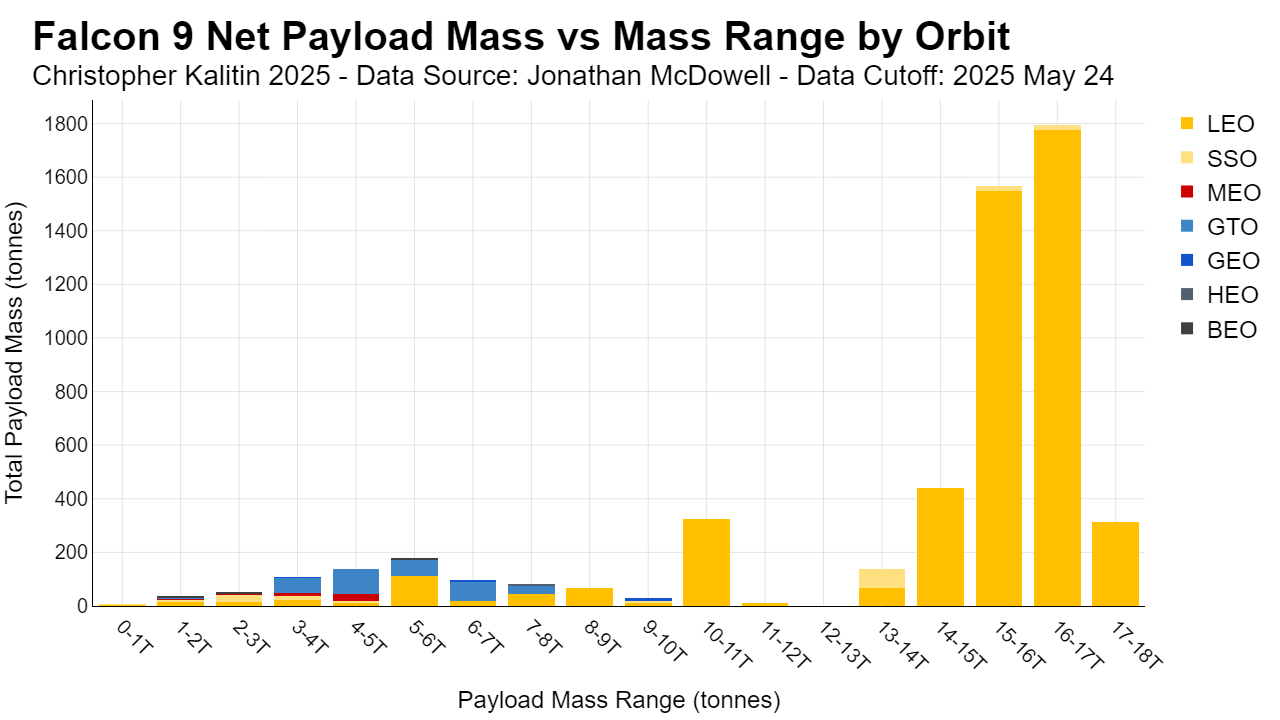
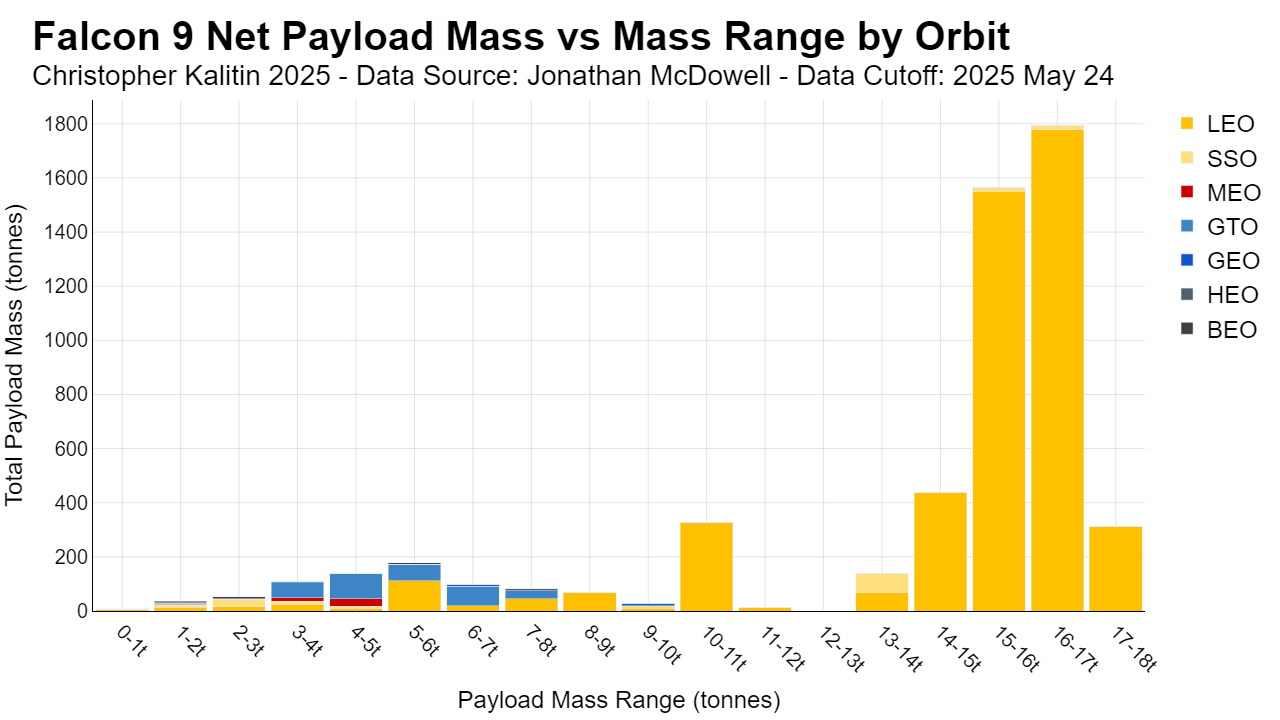
Refactored ChartUtils for refactored F9 Net Mass script

diff --git a/examples/orbital_launches_vs_year_by_orbit.py b/examples/orbital_launches_vs_year_by_orbit.py
@@ -1,40 +1,48 @@
 import mcdowell_dataset_analysis as mda
-import copy
-import pandas as pd
 
-dateset_name = "orbital_launches_vs_year_by_orbit"
+def main(start_year=2000):
+    dateset_name = f"orbital_launches_vs_year_by_orbit_{start_year}"
 
-# Initialize dataset
-dataset = mda.McdowellDataset("./datasets")
+    # Initialize dataset
+    dataset = mda.McdowellDataset("./datasets")
 
-mda.Filters.filter_by_launch_date(dataset.launch, start_date='2000-01-01')
-mda.Filters.filter_by_launch_category(dataset.launch, ['O', 'D'])
+    # Filter the base dataset
+    mda.Filters.filter_by_launch_date(dataset.launch, start_date=f'{start_year}-01-01')
+    mda.Filters.filter_by_launch_category(dataset.launch, ['O', 'D'])
 
-dataset.launch.df['Launch_Year'] = dataset.launch.df['Launch_Date'].dt.year
+    # Add launch year column for easier binning
+    dataset.launch.df['Launch_Year'] = dataset.launch.df['Launch_Date'].dt.year
 
-orbits = ['LEO', 'SSO', 'MEO', 'GTO', 'GEO', 'HEO', 'BEO']
+    orbits = ['LEO', 'SSO', 'MEO', 'GTO', 'GEO', 'HEO', 'BEO']
 
-orbit_counts = {}
-for orbit in orbits:
-    orbit_df = copy.copy(dataset.launch)
-    mda.Filters.filter_by_orbit(orbit_df, orbit)
-    orbit_counts[orbit] = mda.ChartUtils.bin_dataframe(orbit_df.df, 'Launch_Year', bins=list(range(1999, 2026)), labels=list(range(2000, 2026)))
+    # Create a dictionary with key orbits and values are dataframes for each orbit showing the number of launches per year
+    orbit_dataframes = mda.ChartUtils.bin_dataframe_into_dictionary_by_filter_function(
+        dataset=dataset.launch,
+        filter_function=mda.Filters.filter_by_orbit,
+        filter_function_parameters=orbits,
+        value_col='Launch_Year',
+        bins=list(range(start_year-1, 2026)), # -1 because it's weird
+        bin_labels=list(range(start_year, 2026)),
+    )
 
-output_df = pd.concat(orbit_counts.values(), axis=1)
-output_df.columns = orbit_counts.keys()
+    # Combine dictionary of dataframes into a single dataframe (by column)
+    output_df = mda.ChartUtils.combine_dictionary_of_dataframes(orbit_dataframes)
 
-print(output_df)
+    print(output_df)
 
-output_df.to_csv(f'examples/outputs/{dateset_name}.csv', index=True)
-print(f"CSV file '{dateset_name}.csv' has been created.")
+    output_df.to_csv(f'examples/outputs/{dateset_name}.csv', index=True)
+    print(f"CSV file '{dateset_name}.csv' has been created.")
 
-mda.ChartUtils.plot_bar(
-    output_df,
-    title='Orbital Launches vs. Year by Orbit',
-    subtitle=f'Christopher Kalitin 2025 - Data Source: Jonathan McDowell - Data Cutoff: {dataset.date_updated}',
-    x_label='Year',
-    y_label='Number of Launches',
-    output_path=f'examples/outputs/{dateset_name}.png',
-    color_map=mda.ChartUtils.orbit_color_map,
-    bargap=0.1,
-)
+    mda.ChartUtils.plot_bar(
+        output_df,
+        title='Orbital Launches vs. Year by Orbit',
+        subtitle=f'Christopher Kalitin 2025 - Data Source: Jonathan McDowell - Data Cutoff: {dataset.date_updated}',
+        x_label='Year',
+        y_label='Number of Launches',
+        output_path=f'examples/outputs/{dateset_name}.png',
+        color_map=mda.ChartUtils.orbit_color_map,
+        bargap=0.1,
+    )
+    
+main(2000)
+main(1957)

diff --git a/src/chart_utils.py b/src/chart_utils.py
@@ -2,6 +2,7 @@ import pandas as pd
 import matplotlib.pyplot as plt
 import plotly.express as px
 import plotly.io as pio
+import copy
 
 class ChartUtils:
     """
@@ -45,9 +46,9 @@ class ChartUtils:
         pivoted = pivoted.reset_index().sort_values(by=index_col)
         return pivoted
 
-    def bin_dataframe(df, value_col, bins, labels):
+    def count_values_into_bins(df, value_col, bins, labels, count_values=None, specific_column=None):
         """
-        Sort groups into discrete bins (eg. intervals of payload mass) and count how many data points fall into each bin.
+        Sort groups (then, counts total) into discrete bins (eg. intervals of payload mass) and count how many data points fall into each bin.
         
         Eg. mass bins and labels:
         bins = [0,1000,2000,3000]
@@ -55,9 +56,33 @@ class ChartUtils:
         
         Notice that labels are between the bins. The bins variable specifies the edges of the bins.
         """
-        binned = pd.cut(df[value_col], bins=bins, labels=labels, include_lowest=True).value_counts()
-        return binned.reindex(labels)
+        if specific_column:
+            df[specific_column] = pd.cut(df[value_col], bins=bins, labels=labels, include_lowest=True)
+            binned = df
+        else:
+            binned = pd.cut(df[value_col], bins=bins, labels=labels, include_lowest=True)
+        if count_values:
+            binned = binned.value_counts().reindex(labels)
+        return binned
  
+    def bin_dataframe_into_dictionary_by_filter_function(dataset, filter_function, filter_function_parameters, value_col, bins, bin_labels, keys=None, count_values=True, specific_column=None):
+        if keys is None:
+            keys = filter_function_parameters
+        output_dict = {}
+        for filter_function_parameter, key in zip(filter_function_parameters, keys):
+            new_dataset = copy.copy(dataset)  # Create a copy of the dataframe to avoid modifying the original, bad solution tbh
+            filter_function(new_dataset, filter_function_parameter)  # Apply the filter function
+            output_dict[key] = ChartUtils.count_values_into_bins(new_dataset.df, value_col, bins, bin_labels, count_values, specific_column)
+        return output_dict
+ 
+    # Combines individual dataframes as columns into a single dataframe, with keys as column names.
+    def combine_dictionary_of_dataframes(dataframes):
+        # .values gives us a list-like object of the counts for each year
+        # Concat axis=1 combines each individual dataframe into columns of a single dataframe
+        output_df = pd.concat(dataframes.values(), axis=1)
+        output_df.columns = dataframes.keys() # Name columns by the orbits
+        return output_df
+
     # Histograms are designed for continuous data, while bar charts are for discrete data.
     def plot_histogram(dataframe, title, subtitle, x_label, y_label, output_path, color_map, barmode='stack', bargap=0):
         fig = px.histogram(dataframe,

diff --git a/examples/f9_total_mass_vs_mass_by_orbit.py b/examples/f9_total_mass_vs_mass_by_orbit.py
@@ -12,35 +12,28 @@ mda.Filters.filter_by_launch_vehicle_family(dataset.launch, 'Falcon9')  # Filter
 
 # Define orbit types in desired order
 orbits = ['LEO', 'SSO', 'MEO', 'GTO', 'GEO', 'HEO', 'BEO']
+bins = list(range(0, 19000, 1000))
+mass_labels = [f"{int(bins[i]/1000)}-{int(bins[i+1]/1000)}t" for i in range(len(bins)-1)]
 
-# Define payload mass bins and labels
-bins = [0, 1000, 2000, 3000, 4000, 5000, 6000, 7000, 8000, 9000, 10000,
-        11000, 12000, 13000, 14000, 15000, 16000, 17000, 18000, 19000, 20000]
-mass_labels = ['0-1T', '1-2T', '2-3T', '3-4T', '4-5T', '5-6T', '6-7T', '7-8T', '8-9T', '9-10T',
-               '10-11T', '11-12T', '12-13T', '13-14T', '14-15T', '15-16T', '16-17T', '17-18T', '18-19T', '19-20T']
+orbit_dataframes = mda.ChartUtils.bin_dataframe_into_dictionary_by_filter_function(
+    dataset=dataset.launch,
+    filter_function=mda.Filters.filter_by_orbit,
+    filter_function_parameters=orbits,
+    value_col='Payload_Mass',
+    bins=bins,
+    bin_labels=mass_labels,
+    count_values=False,
+    specific_column = 'Mass_Range'
+)
 
-# Calculate total payload mass for each mass range and orbit
 orbit_masses = {}
-for orbit in orbits:
-    orbit_df = copy.copy(dataset.launch)
-    mda.Filters.filter_by_orbit(orbit_df, orbit)
-    orbit_df.df['Mass_Range'] = pd.cut(
-        orbit_df.df['Payload_Mass'],
-        bins=bins,
-        labels=mass_labels,
-        include_lowest=True,
-        right=True
-    )
-    total_mass = orbit_df.df.groupby('Mass_Range')['Payload_Mass'].sum()
+for orbit_dataframe_key in orbit_dataframes.keys():
+    total_mass = orbit_dataframes[orbit_dataframe_key].groupby('Mass_Range')['Payload_Mass'].sum() # Sum mass in payload range for this orbit
     total_mass = total_mass.reindex(mass_labels, fill_value=0)
-    orbit_masses[orbit] = total_mass/1000
+    orbit_masses[orbit_dataframe_key] = total_mass/1000
 
-# Create the final DataFrame
-output_df = pd.DataFrame(orbit_masses)
-output_df.index.name = 'Payload_Mass_Range'
+output_df = mda.ChartUtils.combine_dictionary_of_dataframes(orbit_masses)
 
-# Print the final DataFrame
-print("\nFinal DataFrame (Total Payload Mass in t):")
 print(output_df)
 
 # Save to CSV
@@ -48,12 +41,13 @@ output_df.to_csv(f'examples/outputs/{output_name}.csv', index=True)
 print(f"CSV file '{output_name}.csv' has been created.")
 
 # Plot stacked bar chart
-mda.ChartUtils.plot_histogram(
+mda.ChartUtils.plot_bar(
     output_df,
     title='Falcon 9 Net Payload Mass vs Mass Range by Orbit',
     subtitle=f'Christopher Kalitin 2025 - Data Source: Jonathan McDowell - Data Cutoff: {dataset.date_updated}',
     x_label='Payload Mass Range (tonnes)',
     y_label='Total Payload Mass (tonnes)',
     output_path=f'examples/outputs/{output_name}.png',
-    color_map=mda.ChartUtils.orbit_color_map
+    color_map=mda.ChartUtils.orbit_color_map,
+    bargap=0.1
 )

diff --git a/examples/f9_launches_vs_mass_by_orbit.py b/examples/f9_launches_vs_mass_by_orbit.py
@@ -13,21 +13,24 @@ mda.Filters.filter_by_launch_vehicle_family(dataset.launch, 'Falcon9')  # Filter
 
 # Define orbits and bins
 orbits = ['LEO', 'SSO', 'MEO', 'GTO', 'GEO', 'HEO', 'BEO']
-bins = [0, 1000, 2000, 3000, 4000, 5000, 6000, 7000, 8000, 9000, 10000,
-        11000, 12000, 13000, 14000, 15000, 16000, 17000, 18000, 19000, 20000]
-mass_labels = ['0-1t', '1-2t', '2-3t', '3-4t', '4-5t', '5-6t', '6-7t', '7-8t', '8-9t', '9-10t',
-               '10-11t', '11-12t', '12-13t', '13-14t', '14-15t', '15-16t', '16-17t', '17-18t', '18-19t', '19-20t']
+bins = list(range(0, 19000, 1000))
+mass_labels = [f"{int(bins[i]/1000)}-{int(bins[i+1]/1000)}t" for i in range(len(bins)-1)]
 
-# Bin data by orbit
-orbit_counts = {}
-for orbit in orbits:
-    orbit_df = copy.copy(dataset.launch)
-    mda.Filters.filter_by_orbit(orbit_df, orbit)
-    orbit_counts[orbit] = mda.ChartUtils.bin_dataframe(orbit_df.df, 'Payload_Mass', bins, mass_labels)
+print(bins)
+print(mass_labels)
 
-# Create output DataFrame
-output_df = pd.concat(orbit_counts.values(), axis=1)
-output_df.columns = orbit_counts.keys()
+# Create a dictionary with key orbits and values are dataframes for each orbit showing the number of launches per payload mass range
+orbit_dataframes = mda.ChartUtils.bin_dataframe_into_dictionary_by_filter_function(
+    dataset=dataset.launch,
+    filter_function=mda.Filters.filter_by_orbit,
+    filter_function_parameters=orbits,
+    value_col='Payload_Mass',
+    bins=bins,
+    bin_labels=mass_labels
+)
+
+# Create dictionary with columns that are the orbits and values are the mass ranges
+output_df = mda.ChartUtils.combine_dictionary_of_dataframes(orbit_dataframes)
 
 print(output_df)
 
@@ -35,12 +38,13 @@ print(output_df)
 output_df.to_csv(f'examples/outputs/{output_name}.csv', index=True)
 print(f"CSV file '{output_name}.csv' has been created.")
 
-mda.ChartUtils.plot_histogram(
+mda.ChartUtils.plot_bar(
     output_df,
     title='Falcon 9 Launches vs. Payload Mass by Orbit',
     subtitle=f'Christopher Kalitin 2025 - Data Source: Jonathan McDowell - Data Cutoff: {dataset.date_updated}',
     x_label='Payload Mass Range (tonnes)',
     y_label='Number of Launches',
     output_path=f'examples/outputs/{output_name}.png',
-    color_map=mda.ChartUtils.orbit_color_map
+    color_map=mda.ChartUtils.orbit_color_map,
+    bargap=0.1,
 )

diff --git a/README.md b/README.md
@@ -5,6 +5,10 @@ TODO:
 2. Use auxcat / parents of satellites to get their initial orbits
 3. Documentation of everything and what to use for the AIs
 
+Refactoring:
+1. Split into categories easily (need a function as parameter, eg do you want to sort by orbit or mass or what?)
+2. 
+
 ## Block Diagram
 
 ![Code Block Diagram](https://github.com/CKalitin/mcdowell-dataset-analysis/blob/main/docs/block-diagram.png)  
